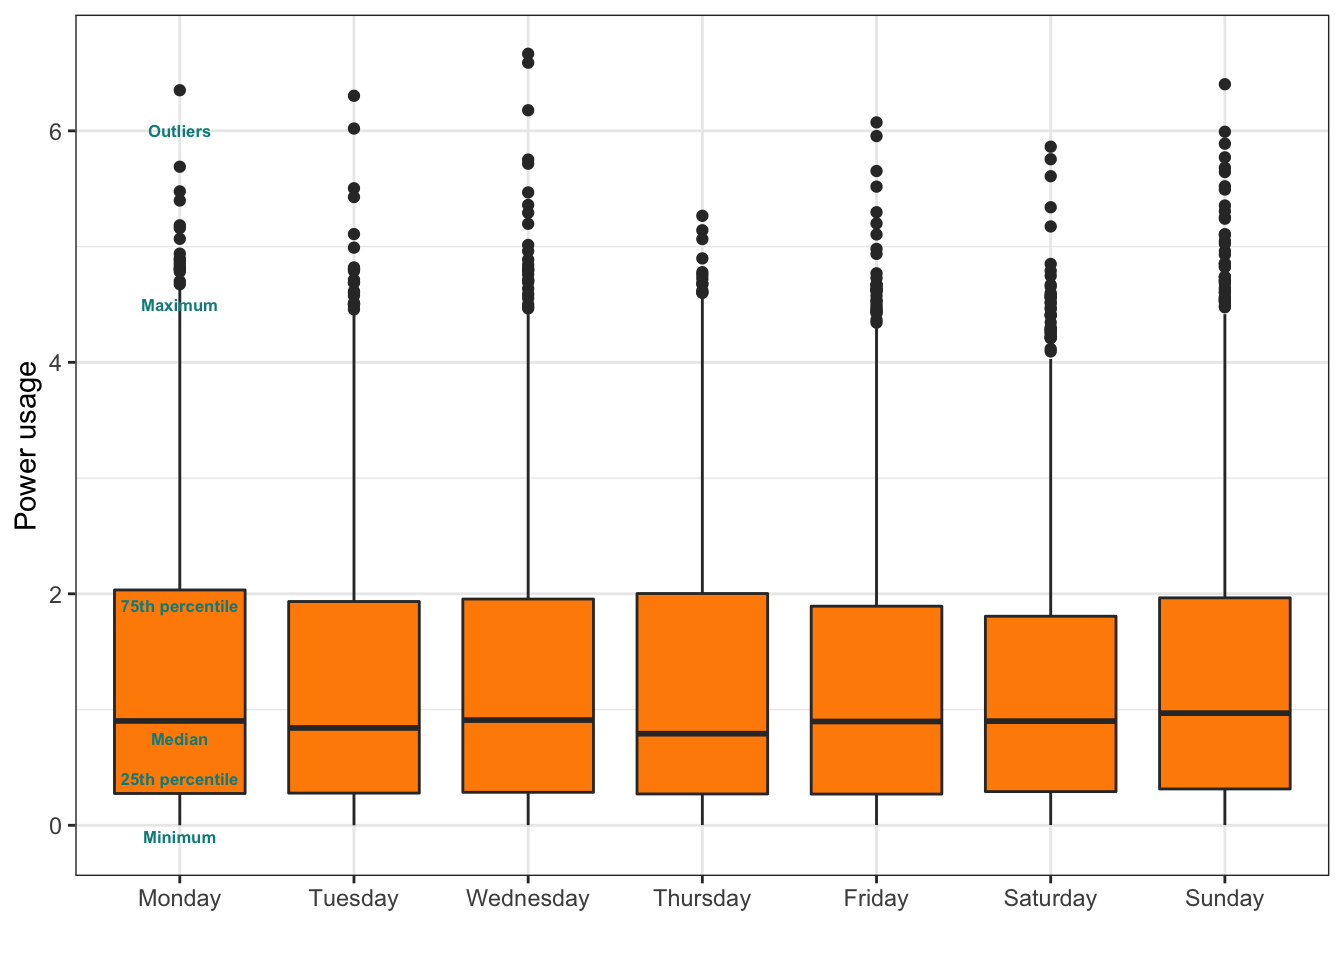
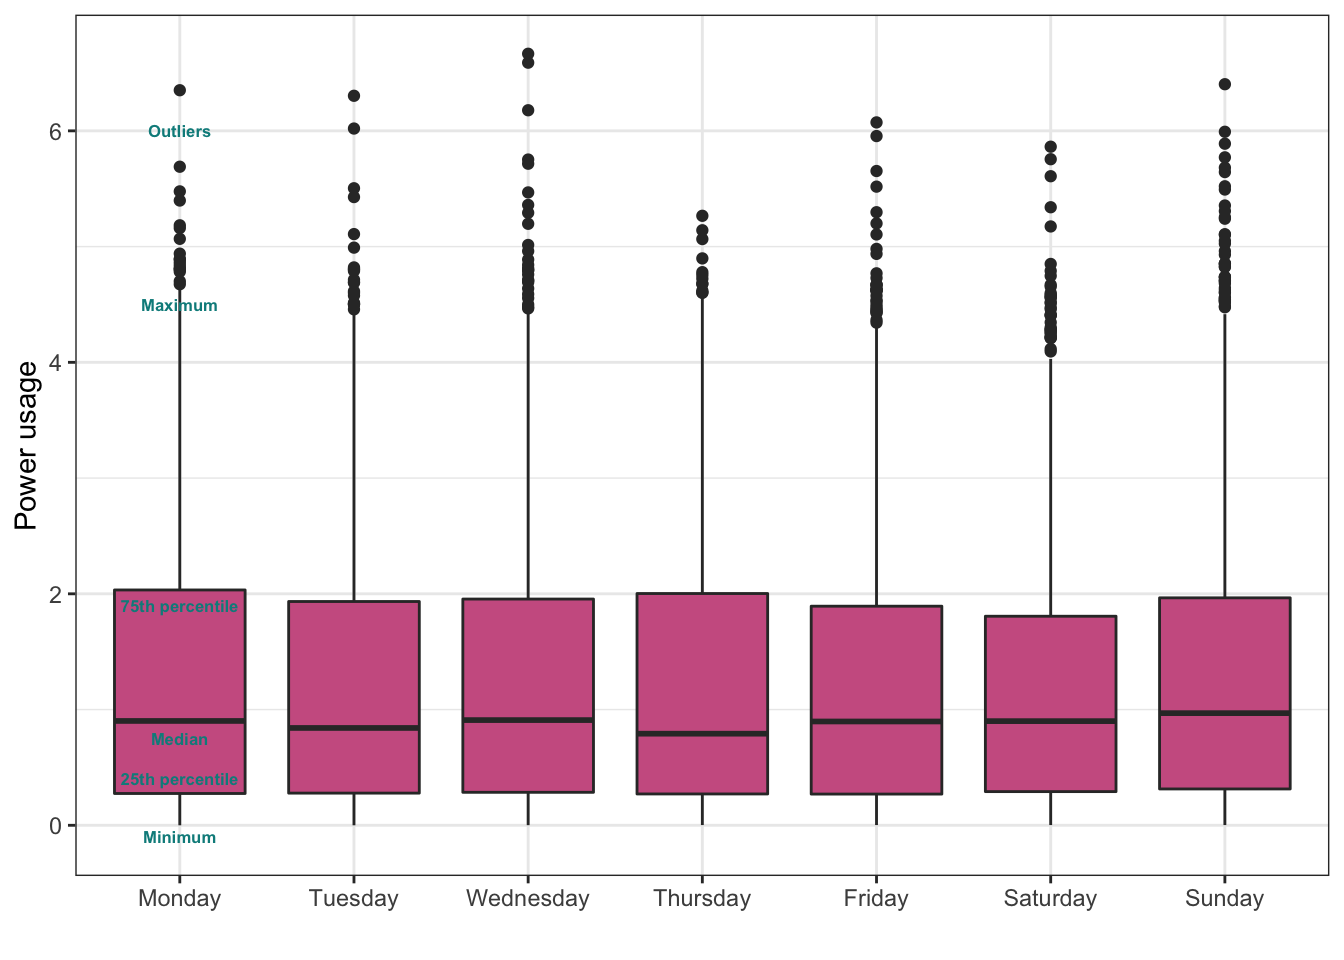
power analysis udates

diff --git a/docs/Power_usage_project.html b/docs/Power_usage_project.html
@@ -358,7 +358,7 @@ div.tocify {
   <a href="Power_usage_project.html">Power usage project</a>
 </li>
 <li>
-  <a href="Measurement_error_simulations.html">Measurement error simulations</a>
+  <a href="Mars_missions.html">Mars missions</a>
 </li>
       </ul>
       <ul class="nav navbar-nav navbar-right">
@@ -385,8 +385,9 @@ div.tocify {
 </div>
 
 
-<p>Latest update: 27.01.2021</p>
-<p>Welcome to my power usage project! Through the fantastic service <a href="https://www.elhub.no/">elhub</a> I have downloaded (and will continue to download) monthly data sets containing the hourly power usage in my appartment. I made an <a href="https://github.com/emmaSkarstein/power.usage.analysis">R-package</a> that contains all the data plus some useful functions. Here I will explore some visualisations of the data.</p>
+<p>Latest update: 08.02.2021</p>
+<p>Welcome to my power usage project! Through <a href="https://www.elhub.no/">elhub</a> I have downloaded (and will continue to download) monthly data sets containing the hourly power usage in my appartment. I made an <a href="https://github.com/emmaSkarstein/power.usage.analysis">R-package</a> that contains all the data plus some useful functions. Here I will explore some visualisations of the data.</p>
+<p>My goal is to produce visualizations of these data that are easy to interpret for people without any particular statistical background. I this document I will be trying out different things and showing a bit of the process, so this is not meant to be a perfect finished product, rather a kind of documentation of the process.</p>
 <pre class="r"><code>#devtools::install_github(&quot;emmaSkarstein/power.usage.analysis&quot;)
 library(power.usage.analysis)
 library(ggplot2)
@@ -394,7 +395,8 @@ library(dplyr)
 library(hrbrthemes)
 library(ggridges)
 library(patchwork)
-
+library(jcolors)
+library(ggpubr)
 theme_set(theme_bw())</code></pre>
 <p>First, let us load the data and look at the structure of it.</p>
 <pre class="r"><code>data &lt;- clean_and_prepare(power_data)
@@ -416,23 +418,20 @@ head(data)</code></pre>
   xlab(&quot;&quot;)
 p_simple</code></pre>
 <p><img src="Power_usage_project_files/figure-html/Messy%20plot-1.png" width="672" /></p>
-<p>This is a mess. While we do see some general tendencies that are interesting (like maximum consumption varying seasonally), it is difficult to tell what is going on in all the noise. Maybe we can smooth it?</p>
-<pre class="r"><code>p_simple + geom_smooth(color = &quot;darkorange&quot;)</code></pre>
-<p><img src="Power_usage_project_files/figure-html/Smoothed%20plot-1.png" width="672" /></p>
-<p>This certainly looks smooth, but it’s still isn’t giving us a lot of information. It is also worth noting the really low values during August of 2020. This was due to some rare error with our power measuring device, and we had to have a guy from the company come fix it. I won’t be handling this in any special way, for now I will just treat them along with the rest of the data. It is worth noting that the values have not been set to zero or <code>NA</code>, instead they are just unrealistically low. If these kinds of problems with the measuring device was a common problem, this would be really frustrating, as there is no way of knowing then if the measurement is actually that low or if there is an error (although appearently we didn’t get charged less for this period, since they knew something was wrong they instead extrapolated from the previous correct values. I asked).</p>
+<p>This is a mess. While we do see some general tendencies that are interesting (like maximum consumption varying seasonally), it is difficult to tell what is going on in all the noise. It is also worth noting the really low values during August of 2020. This was due to some error with our power measuring device, and we had to have a guy from the company come fix it. I won’t be handling this in any special way, for now I will just treat them along with the rest of the data. It is worth noting that the values have not been set to zero or <code>NA</code>, instead they are just unrealistically low. If these kinds of problems with the measuring device was a common problem, this would be really frustrating, as there is no way of knowing then if the measurement is actually that low or if there is an error (although appearently we didn’t get charged less for this period, since they knew something was wrong they instead extrapolated from the previous correct values).</p>
 </div>
 <div id="average-per-weekday---pitfalls-of-the-boxplot" class="section level1">
 <h1>Average per weekday - Pitfalls of the boxplot</h1>
 <p>Another option is to try to group the data by some time period by summing or averaging it. For instance, we can look at the power usage for each weekday. For this, we might be interested in looking at the average power consuption per day, which could easily be calculated. However, just calculating the average, without showing any information about the spread or variation in the observations, is not very good. And when we also have the option to display things graphically instead of just giving summary statistics, a boxplot is a common choice. In this case, a boxplot would look like this:</p>
 <pre class="r"><code>ggplot(data, aes(x = weekday, y = forbruk)) +
-  geom_boxplot(fill = &quot;darkorange&quot;) +
+  geom_boxplot(fill = &quot;hotpink3&quot;) +
   ylab(&quot;Power usage&quot;) +
   xlab(&quot;&quot;) +
   annotate(&quot;text&quot;, x = 1, y = c(-0.1, 0.4, 0.75, 1.9, 4.5, 6), label = c(&quot;Minimum&quot;, &quot;25th percentile&quot;, &quot;Median&quot;, &quot;75th percentile&quot;, &quot;Maximum&quot;, &quot;Outliers&quot;), size = 2.2, fontface = &quot;bold&quot;, color= &quot;darkcyan&quot;)</code></pre>
 <p><img src="Power_usage_project_files/figure-html/unnamed-chunk-3-1.png" width="672" /></p>
 <p>The boxplot displays a lot of information. The first thing I look at is the bold line in the middle of the orange box, which indicates the median (the 50th percentile) of the values in this group. The edges of the box indicate the 25th and 75th percentiles (25th percentile means the value that 25% of the observations lie below, and 75% lie above, and similarly for the 75th percentile). The ends of the “whiskers” show the minimum and maximum value of the data, excluding the outliers, and then the outliers are plotted explicitly.</p>
 <blockquote>
-<p>Since the <em>b</em> in boxplot is often capitalized, I thought it might have been named after the statistician George Box. This is not the case, though! In fact, the box plot (or plots with range-bars) was introduced by the data visualization specialist <a href="https://en.wikipedia.org/wiki/Mary_Eleanor_Spear">Mary Eleanor Spear</a>, first in her book <em>Charting statistics</em> in 1952.</p>
+<p>The box plot (or plots with range-bars) was introduced by the data visualization specialist <a href="https://en.wikipedia.org/wiki/Mary_Eleanor_Spear">Mary Eleanor Spear</a>, first in her book <em>Charting statistics</em> in 1952.</p>
 </blockquote>
 <p>From the above plot, it really doesn’t look to me like there are any real differences in power usage between each weekday. I would be ok with leaving it like this, but boxplots are a bit controversial, since they may easily show the same box plot for observations of very different distributions. See <a href="https://www.data-to-viz.com/caveat/boxplot.html">this nice article</a> for a further discussion of this. There are some ways to fix this, however. A simple fix to make sure we aren’t hiding any important information about the distribution of the data is to plot a jittered scatterplot on top. That would look like this for us:</p>
 <pre class="r"><code>ggplot(data, aes(x = weekday, y = forbruk)) +
@@ -444,21 +443,20 @@ p_simple</code></pre>
 <p>This is quite transparent, but in our case it looks chaotic since we have so many observations. It also does’t solve the problem that the boxplot is not immediately obvious if you have never seen one before, which I would say is a major disadvantage when visualizing data for most audiences.</p>
 <p>An alternative to the box-plot is the violin plot. Personally, I’m not a fan of the violin plot because I initially found the fact that it is symmetric around a center line to be a bit confusing. If I want the plot to be <em>really</em> easy to interpret, I find the ridge plot to be superior to both the boxplot and violin plot. Here is how it looks using the same data as above:</p>
 <pre class="r"><code>ggplot(data, aes(x = forbruk, y = weekday)) +
-  geom_density_ridges(alpha = 0.8, fill = &quot;darkorange&quot;) +
+  geom_density_ridges(alpha = 0.8, fill = &quot;hotpink3&quot;) +
   theme_ridges() +
-  scale_fill_brewer(palette = &quot;Dark2&quot;) +
   ylab(&quot;&quot;) +
   xlab(&quot;Power usage&quot;)</code></pre>
 <p><img src="Power_usage_project_files/figure-html/unnamed-chunk-5-1.png" width="672" /></p>
 <p>—-some interpretation of this—-</p>
 <p>As a last point I just want to compare the boxplot, violin plot and ridge plot here for the reader, because I think preferences vary and it is interesting seeing the different options (note that I’ve flipped the axes on the two first so they are the same direction as the ridge plot).</p>
 <pre class="r"><code>p_box &lt;- ggplot(data, aes(y = weekday, x = forbruk)) +
-  geom_boxplot(fill = &quot;darkorange&quot;) +
+  geom_boxplot(fill = &quot;darkorange2&quot;) +
   xlab(&quot;&quot;) +
   ylab(&quot;&quot;)
 
 p_violin &lt;-ggplot(data, aes(y = weekday, x = forbruk)) +
-  geom_violin(fill = &quot;purple&quot;) +
+  geom_violin(fill = &quot;hotpink3&quot;) +
   xlab(&quot;&quot;) +
   ylab(&quot;&quot;) + 
   theme(axis.text.y = element_blank())
@@ -482,7 +480,7 @@ p_ridges &lt;- ggplot(data, aes(x = forbruk, y = weekday)) +
   xlab(&quot;&quot;) +
   scale_fill_brewer(palette = &quot;Dark2&quot;)</code></pre>
 <p><img src="Power_usage_project_files/figure-html/Average%20per%20weekday%20by%20year-1.png" width="672" /></p>
-<p>There are some differences here, but I really do’nt think we can say for certain that there is a meaningful difference between the power consumption in 2019 and 2020 for any of the weekdays. This makes sense, because although we were probably more outside of the appartment in 2019, usually there would be at least one of us at home regardless, so the situation is not very different.</p>
+<p>There are some differences here, but I really don’t think we can say for certain that there is a meaningful difference between the power consumption in 2019 and 2020 for any of the weekdays. This makes sense, because although we were probably more outside of the appartment in 2019, usually there would be at least one of us at home regardless, so the situation is not very different.</p>
 </div>
 <div id="total-per-month" class="section level1">
 <h1>Total per month</h1>
@@ -494,7 +492,7 @@ p_ridges &lt;- ggplot(data, aes(x = forbruk, y = weekday)) +
 
 ggplot(year_month, aes(x = month, y = sum_forb)) +
   geom_col(aes(fill = year), color = &quot;black&quot;, position = &quot;dodge&quot;) +
-  scale_fill_brewer(palette = &quot;Dark2&quot;) +
+  scale_fill_jcolors(palette = &quot;pal6&quot;) +
   ylab(&quot;Total power usage per month&quot;) +
   xlab(&quot;&quot;)</code></pre>
 <p><img src="Power_usage_project_files/figure-html/Total%20per%20month-1.png" width="672" /></p>
@@ -509,7 +507,7 @@ ggplot(year_month, aes(x = month, y = sum_forb)) +
 
 ggplot(daily, aes(x = date, y = sum_forb)) +
   geom_point(size = 0.5) +
-  geom_line(alpha = 0.5, color = &quot;darkgreen&quot;) +
+  geom_line(alpha = 0.5, color = &quot;hotpink4&quot;) +
   ylab(&quot;Power usage&quot;) +
   xlab(&quot;&quot;)</code></pre>
 <p><img src="Power_usage_project_files/figure-html/unnamed-chunk-6-1.png" width="672" /></p>
@@ -517,14 +515,30 @@ ggplot(daily, aes(x = date, y = sum_forb)) +
 </div>
 <div id="usage-throughout-the-day" class="section level1">
 <h1>Usage throughout the day</h1>
-<p>As a final plot, I would like to know how the power usage is distributed throughout the day. Here I will try to do some fancier visualizations later on, since we can think of a day as a whole, split it up into equal sections (each one hour for instance) and then show by using the area of a column for instance, how large a part of the total daily power consumption was in that hour. For now though, this one is a bit easier:</p>
-<pre class="r"><code>ggplot(data, aes(x = hour, y = forbruk, fill = year)) +
-  geom_boxplot() +
-  scale_fill_brewer(palette = &quot;Dark2&quot;) +
+<p>As a final plot, I would like to know how the power usage is distributed throughout the day. First just a simple box plot:</p>
+<pre class="r"><code>ggplot(data, aes(x = hour, y = forbruk)) +
+  geom_boxplot(fill = &quot;hotpink3&quot;) +
   ylab(&quot;Power usage&quot;) +
   xlab(&quot;&quot;) +
   theme(axis.text.x = element_text(angle = 45))</code></pre>
 <p><img src="Power_usage_project_files/figure-html/unnamed-chunk-7-1.png" width="672" /></p>
+<p>I also want to try a fancier, less detailed version that represents time periods with higher usage as larger areas. I have split the day into 4-hour intervals (should i use a finer resolution?), and the below plot shows the total power consumption in each time period. (Would it be better with a donut to represent the day as a cycle?) (would be nice to show the times on the plot somehow)</p>
+<pre class="r"><code># Adding grouped time column
+data &lt;- data %&gt;% mutate(grouped_time = 
+                          factor(floor(as.numeric(substr(hour, start = 1, stop = 2))/3)))
+
+ggplot(data, aes(x = 1, y = -forbruk, fill = grouped_time)) +
+  geom_col() +
+  scale_fill_brewer(labels = c(&quot;00:00 - 02:00&quot;, &quot;03:00 - 05:00&quot;, 
+                                 &quot;06:00 - 08:00&quot;, &quot;09:00 - 11:00&quot;, 
+                                 &quot;12:00 - 14:00&quot;, &quot;15:00 - 17:00&quot;,
+                                &quot;18:00 - 20:00&quot;, &quot;21:00 - 23:00&quot;),
+                    palette = &quot;BrBG&quot;) +
+  theme_transparent() +
+  coord_flip() +
+  theme(legend.position = &quot;bottom&quot;,
+        legend.title = element_blank())</code></pre>
+<p><img src="Power_usage_project_files/figure-html/unnamed-chunk-8-1.png" width="768" /></p>
 </div>
 
 

diff --git a/docs/index.html b/docs/index.html
@@ -278,7 +278,7 @@ $(document).ready(function () {
   <a href="Power_usage_project.html">Power usage project</a>
 </li>
 <li>
-  <a href="Measurement_error_simulations.html">Measurement error simulations</a>
+  <a href="Mars_missions.html">Mars missions</a>
 </li>
       </ul>
       <ul class="nav navbar-nav navbar-right">
@@ -310,8 +310,8 @@ $(document).ready(function () {
 <!-- Making a two-column output -->
 <div class="row" style="padding-top: 30px;">
 <div class="col-sm-6">
-<h1 id="my-webpage"><strong>My Webpage</strong></h1>
-<p>This will be my webpage to share documents and similar stuff as easily as possible.</p>
+<h1 id="hello"><strong>Hello!</strong></h1>
+<p>This is very much under construction, but I hope to use this page to share documents and similar stuff as easily as possible.</p>
 </div>
 <div class="col-sm-6">
 <p><a> <img src="images/tulip.png" /> </a></p>

diff --git a/docs/Mars_missions.html b/docs/Mars_missions.html
@@ -11,7 +11,7 @@
 
 
 
-<title>Measurement error simulations</title>
+<title>Mars missions</title>
 
 <script src="site_libs/jquery-1.11.3/jquery.min.js"></script>
 <meta name="viewport" content="width=device-width, initial-scale=1" />
@@ -354,7 +354,7 @@ div.tocify {
   <a href="Power_usage_project.html">Power usage project</a>
 </li>
 <li>
-  <a href="Measurement_error_simulations.html">Measurement error simulations</a>
+  <a href="Mars_missions.html">Mars missions</a>
 </li>
       </ul>
       <ul class="nav navbar-nav navbar-right">
@@ -368,7 +368,7 @@ div.tocify {
 
 
 
-<h1 class="title toc-ignore">Measurement error simulations</h1>
+<h1 class="title toc-ignore">Mars missions</h1>
 
 </div>
 
